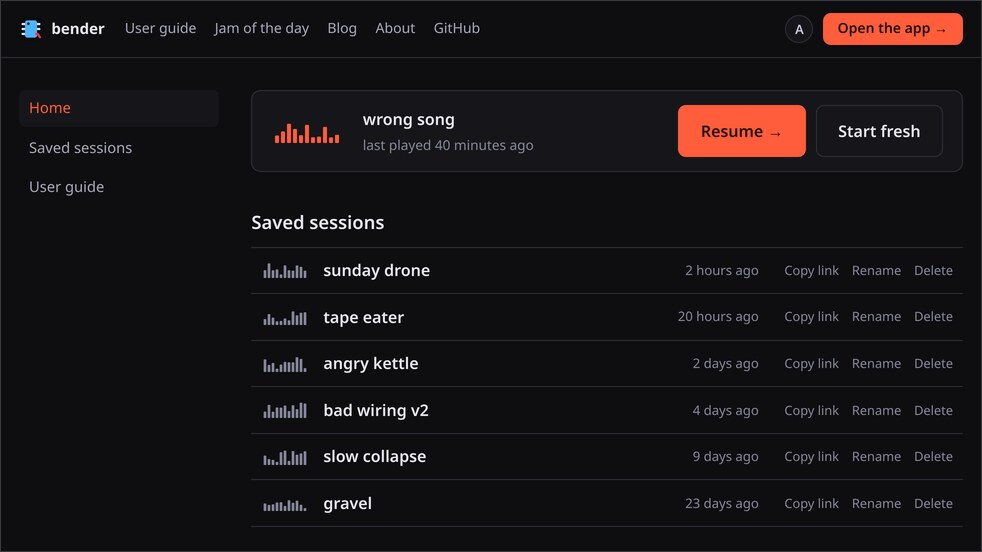
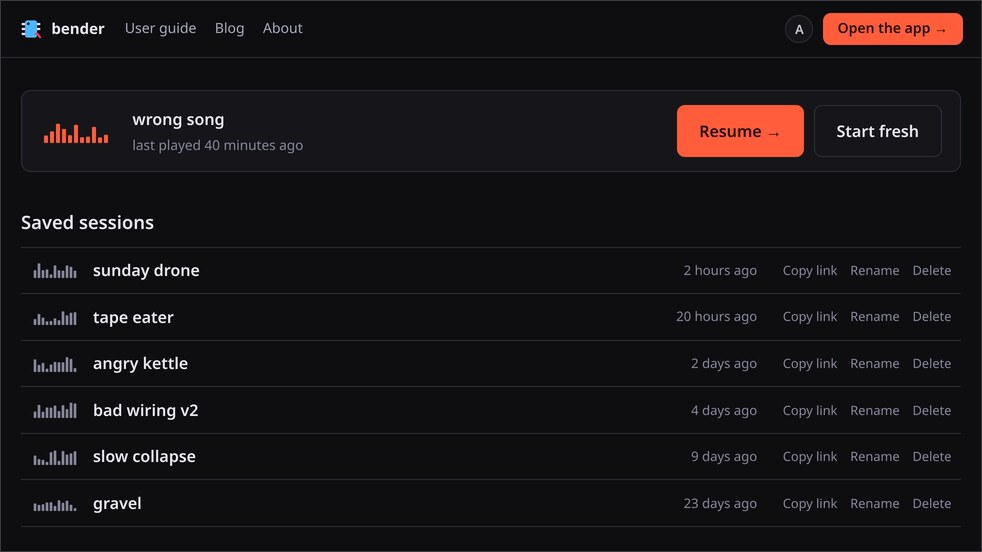
feat(home): a lede under the title, grouped scene cards with a board mark, waveform demo rows, and a signed-in home without the rail
- Landing sections share one spacing; scene blurbs clamp to four lines, three on a phone, with the whole text in the card's title
- Demo rows draw the jam's peaks and seek on a click
- Signed-in rows show copy, rename and delete on hover or focus where there is a mouse
- public/dashboard.jpg reshot with pnpm dash

diff --git a/src/site/home.css b/src/site/home.css
@@ -5,11 +5,20 @@
 .landing {
   padding-block: 2.5rem 1rem;
 }
+.landing section {
+  padding-block: 1.75rem;
+}
 .heroHead {
-  margin: 0 0 1.5rem;
+  margin: 0 0 0.5rem;
   font-size: clamp(1.75rem, 5vw, 2.5rem);
   line-height: 1.15;
   letter-spacing: -0.01em;
+}
+.lede {
+  max-width: var(--measure);
+  margin: 0 0 1.5rem;
+  color: var(--fg3);
+  font-size: 1.08rem;
 }
 .pile {
   position: relative;
@@ -125,19 +134,24 @@
   flex: 1;
   min-width: 0;
 }
-.bar {
-  height: 3px;
-  margin-top: 0.25rem;
-  border-radius: 2px;
-  background: var(--border-faint);
-  overflow: hidden;
-}
-.fill {
+.wave {
+  position: relative;
   display: block;
+  height: 1.75rem;
+  cursor: pointer;
+}
+.wave svg {
+  position: absolute;
+  inset: 0;
+  width: 100%;
   height: 100%;
-  background: var(--accent);
-  transform: scaleX(0);
-  transform-origin: left;
+}
+.waveBase {
+  fill: var(--border);
+}
+.waveDone {
+  fill: var(--accent);
+  clip-path: inset(0 calc(100% - var(--done, 0%)) 0 0);
 }
 
 /* The scene cards: a name and a blurb. */
@@ -172,6 +186,37 @@
   height: 1.5rem;
   fill: var(--fg4);
 }
+.sceneGroup {
+  margin: 1.5rem 0 0.6rem;
+  color: var(--fg3);
+  font-size: 0.95rem;
+  font-weight: 600;
+}
+.grid.scenes {
+  grid-template-columns: repeat(auto-fill, minmax(min(16rem, 100%), 1fr));
+}
+.scenes .mark {
+  width: 3rem;
+  height: 1rem;
+  margin-bottom: 0.15rem;
+}
+.scenes .card:hover .mark,
+.scenes .card:focus-visible .mark {
+  fill: var(--accent);
+}
+.scenes .says {
+  display: -webkit-box;
+  -webkit-box-orient: vertical;
+  -webkit-line-clamp: 4;
+  line-clamp: 4;
+  overflow: hidden;
+}
+@media (max-width: 40rem) {
+  .scenes .says {
+    -webkit-line-clamp: 3;
+    line-clamp: 3;
+  }
+}
 .cardName {
   font-size: 0.94rem;
   font-weight: 600;
@@ -183,8 +228,17 @@
   line-height: 1.45;
 }
 
-/* The signed-in home: a narrower column than the landing page, a slim resume
-   strip, the saved boards, and the older autosaves folded under them. */
+/* The signed-in home: one column on the landing page's left edge, a slim
+   resume strip, the saved boards, and the older autosaves folded under them. */
+.home .homeIn,
+.homeWait .homeIn {
+  grid-template-columns: minmax(0, 1fr);
+  max-width: 72rem;
+  padding-inline: max(1.25rem, env(safe-area-inset-left));
+}
+.homeWait .rail {
+  display: none;
+}
 .home .homeMain,
 .homeWait .homeMain {
   max-width: 62rem;
@@ -311,6 +365,16 @@
 }
 .autosaves[open] summary {
   margin-bottom: 0.6rem;
+}
+@media (hover: hover) and (pointer: fine) {
+  .boardRow .cardActions {
+    opacity: 0;
+  }
+  .boardRow:hover .cardActions,
+  .boardRow:focus-within .cardActions,
+  .boardRow .cardActions:has(input, .cardAsk, .cardStatus:not(:empty)) {
+    opacity: 1;
+  }
 }
 @media (max-width: 40rem) {
   .boardRow .cardActions {

diff --git a/src/home/listen.ts b/src/home/listen.ts
@@ -4,9 +4,8 @@ let current: HTMLAnchorElement | undefined
 const nameOf = (play: HTMLAnchorElement) =>
   play.getAttribute('aria-label')!.replace(/^(Play|Pause) /, '')
 
-function fillOf(play: HTMLAnchorElement) {
-  return play.closest('.track')!.querySelector<HTMLElement>('.fill')!
-}
+const waveOf = (play: HTMLAnchorElement) =>
+  play.closest('.track')!.querySelector<HTMLElement>('.wave')!
 
 function show(play: HTMLAnchorElement, on: boolean) {
   play.toggleAttribute('data-on', on)
@@ -14,27 +13,43 @@ function show(play: HTMLAnchorElement, on: boolean) {
 }
 
 function stop() {
-  if (current === undefined) return
-  show(current, false)
-  fillOf(current).style.transform = ''
+  if (current !== undefined) {
+    show(current, false)
+    waveOf(current).style.removeProperty('--done')
+  }
+}
+
+function start(play: HTMLAnchorElement) {
+  if (current !== play) {
+    stop()
+    current = play
+    audio.src = play.href
+  }
+  show(play, true)
+  audio.play().catch(() => {
+    show(play, false)
+  })
 }
 
 for (const play of document.querySelectorAll<HTMLAnchorElement>('.play')) {
   play.addEventListener('click', event => {
     event.preventDefault()
-    if (current === play && !audio.paused) {
-      audio.pause()
-      return
+    if (current === play && !audio.paused) audio.pause()
+    else start(play)
+  })
+  const wave = waveOf(play)
+  wave.addEventListener('click', event => {
+    const box = wave.getBoundingClientRect()
+    const fraction = Math.min(
+      1,
+      Math.max(0, (event.clientX - box.left) / box.width),
+    )
+    const seek = () => {
+      audio.currentTime = fraction * audio.duration
     }
-    if (current !== play) {
-      stop()
-      current = play
-      audio.src = play.href
-    }
-    show(play, true)
-    audio.play().catch(() => {
-      show(play, false)
-    })
+    start(play)
+    if (audio.readyState > 0) seek()
+    else audio.addEventListener('loadedmetadata', seek, { once: true })
   })
 }
 
@@ -43,9 +58,11 @@ audio.addEventListener('pause', () => {
 })
 
 audio.addEventListener('timeupdate', () => {
-  if (current === undefined || !audio.duration) return
-  fillOf(current).style.transform =
-    `scaleX(${audio.currentTime / audio.duration})`
+  if (current !== undefined && audio.duration)
+    waveOf(current).style.setProperty(
+      '--done',
+      `${(audio.currentTime / audio.duration) * 100}%`,
+    )
 })
 
 audio.addEventListener('ended', () => {

diff --git a/src/site/scenes.ts b/src/site/scenes.ts
@@ -28,19 +28,32 @@ const TAPE_SCENES = [
   },
 ]
 
-export const scenes = [
-  ...DEMO_SCENES.map(({ name, says, board }) => ({
-    name,
-    says,
-    href: boardUrl(sceneHash({ ...DEFAULT_CONTROLS, ...board })),
-  })),
-  ...TAPE_SCENES.map(({ preset, says }) => {
-    const def = PRESETS.find(p => p.name === preset)
-    if (def === undefined) throw new Error(`no preset named '${preset}'`)
-    return {
-      name: def.name,
-      says,
-      href: boardUrl(sceneHash(applyPreset(def, DEFAULT_CONTROLS), def.shelf)),
-    }
-  }),
+const scene = (name: string, says: string, query: string) => ({
+  name,
+  says,
+  query,
+  href: boardUrl(query),
+})
+
+export const sceneGroups = [
+  {
+    head: 'The chips',
+    scenes: DEMO_SCENES.map(({ name, says, board }) =>
+      scene(name, says, sceneHash({ ...DEFAULT_CONTROLS, ...board })),
+    ),
+  },
+  {
+    head: 'Old recordings on tape',
+    scenes: TAPE_SCENES.map(({ preset, says }) => {
+      const def = PRESETS.find(p => p.name === preset)
+      if (def === undefined) throw new Error(`no preset named '${preset}'`)
+      return scene(
+        def.name,
+        says,
+        sceneHash(applyPreset(def, DEFAULT_CONTROLS), def.shelf),
+      )
+    }),
+  },
 ]
+
+export const scenes = sceneGroups.flatMap(group => group.scenes)

diff --git a/src/home/mark.ts b/src/home/mark.ts
@@ -28,21 +28,26 @@ export function markBars(query: string): number[] {
   return bars
 }
 
+export const MARK_VIEW = `0 0 ${BARS * 6 - 2} 24`
+
+export const markRects = (query: string) =>
+  markBars(query).map((v, i) => ({ x: i * 6, y: 24 - v * 24, height: v * 24 }))
+
 const SVG = 'http://www.w3.org/2000/svg'
 
 export function markFor(query: string): SVGSVGElement {
   const svg = document.createElementNS(SVG, 'svg')
-  svg.setAttribute('viewBox', `0 0 ${BARS * 6 - 2} 24`)
+  svg.setAttribute('viewBox', MARK_VIEW)
   svg.setAttribute('class', 'mark')
   svg.setAttribute('aria-hidden', 'true')
-  markBars(query).forEach((v, i) => {
+  for (const { x, y, height } of markRects(query)) {
     const bar = document.createElementNS(SVG, 'rect')
-    bar.setAttribute('x', String(i * 6))
+    bar.setAttribute('x', String(x))
     bar.setAttribute('width', '4')
-    bar.setAttribute('y', String(24 - v * 24))
-    bar.setAttribute('height', String(v * 24))
+    bar.setAttribute('y', String(y))
+    bar.setAttribute('height', String(height))
     bar.setAttribute('rx', '1')
     svg.append(bar)
-  })
+  }
   return svg
 }

diff --git a/src/home/main.ts b/src/home/main.ts
@@ -8,7 +8,6 @@
 // that needs it, so the only loads that reach Google are the ones that already
 // know this browser signed in and the ones where somebody pressed the button.
 
-import { guideUrl, siteRoot } from '../site/paths.ts'
 import {
   fetchHome,
   signIn,
@@ -45,25 +44,11 @@ function showFrame(user: CloudUser, sections: HTMLElement[]) {
   for (const button of whyBtns) button.hidden = true
   acct.hidden = false
 
-  const rail = el('nav', 'rail')
-  rail.setAttribute('aria-label', 'Home')
-  const links: [string, string, boolean][] = [
-    [siteRoot, 'Home', true],
-    ['#saved', 'Saved sessions', false],
-    [guideUrl, 'User guide', false],
-  ]
-  for (const [href, label, on] of links) {
-    const link = el('a', on ? 'on' : undefined, label)
-    link.href = href
-    if (on) link.setAttribute('aria-current', 'page')
-    rail.append(link)
-  }
-
   const main = el('div', 'homeMain')
   main.append(...sections)
 
   const inner = el('div', 'homeIn')
-  inner.append(rail, main)
+  inner.append(main)
   home.textContent = ''
   home.append(inner)
   home.hidden = false

diff --git a/src/home/landing.test.ts b/src/home/landing.test.ts
@@ -63,6 +63,7 @@ test('the landing page plays every jam of the day and links the jam page', () =>
   expect(jams.length).toBeGreaterThan(0)
   expect(landing.match(/class="track"/g)?.length).toBe(jams.length)
   expect(landing.match(/class="play"/g)?.length).toBe(jams.length)
+  expect(landing.match(/class="wave"/g)?.length).toBe(jams.length)
   for (const jam of jams) expect(landing).toContain(`href="${jam.src}"`)
   expect(landing).toContain(`href="${jamUrl}"`)
 })
@@ -161,4 +162,10 @@ test('every scene links into the app with its board', () => {
   expect(
     scenes.find(s => s.name === 'ballroom at the end of time')?.href,
   ).toContain('shelf=piano78s')
+})
+
+test('every scene card draws the mark of the board it opens', () => {
+  const cards = landing.match(/<a class="card"[\s\S]*?<\/a>/g) ?? []
+  expect(cards.length).toBe(scenes.length)
+  for (const card of cards) expect(card).toContain('class="mark"')
 })
